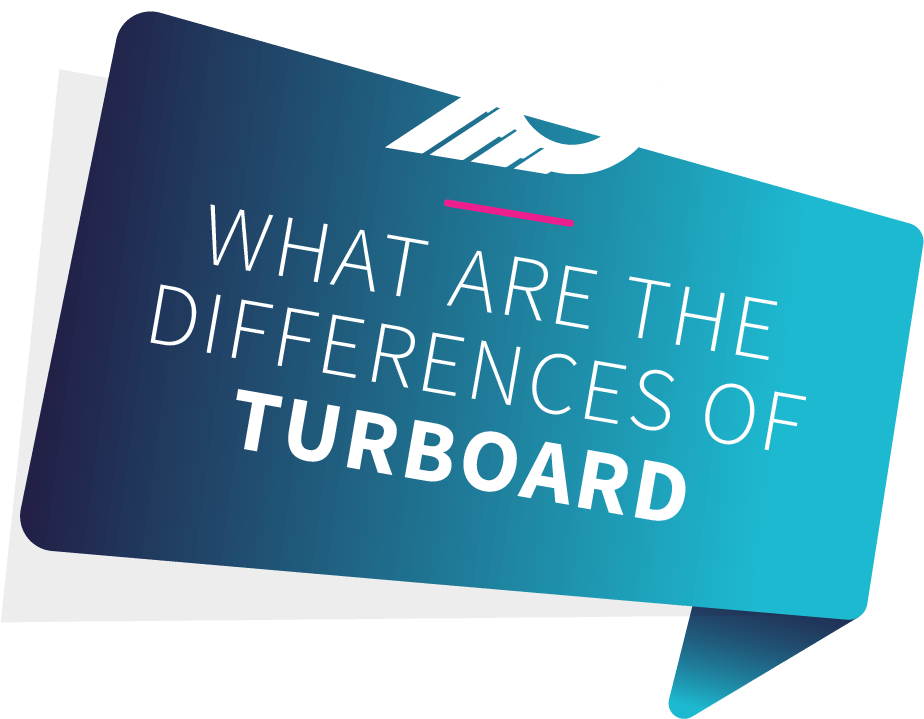
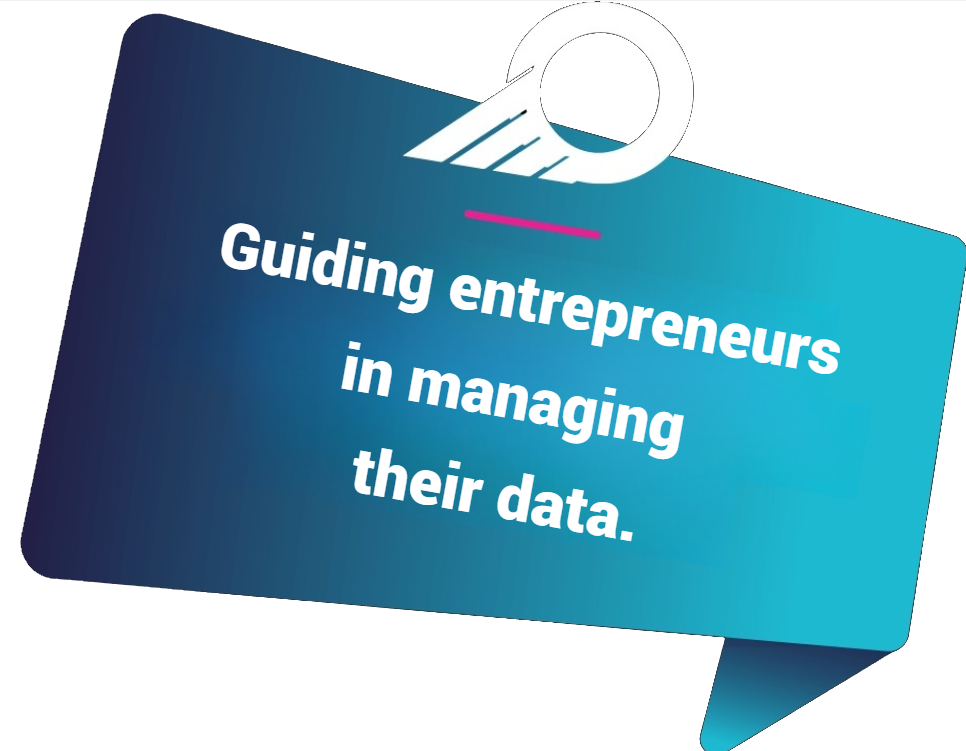
features

diff --git a/src/components/FeatureComponent/FeatureComponent.jsx b/src/components/FeatureComponent/FeatureComponent.jsx
@@ -1,0 +1,75 @@
+import React, { useState } from "react";
+import styles from "./styles.module.css";
+
+const FeatureComponent = () => {
+    const [currentIndex, setCurrentIndex] = useState(0);
+
+    const features = [
+        {
+            title: "Extended Slicing & Filtering Capabilities",
+            description:
+                "Slice and dice your data without a need for a preprocess, turn almost all dashlets to slicer. If there is no field in the database, create your filters using SQL.",
+            videoUrl: "https://www.youtube.com/embed/dQw4w9WgXcQ",
+        },
+        {
+            title: "Real-Time Dashboards",
+            description:
+                "Create dynamic, real-time dashboards with easy-to-use widgets and visualization tools to get insights instantly.",
+            videoUrl: "https://www.youtube.com/embed/ScMzIvxBSi4",
+        },
+        {
+            title: "Customizable Reports",
+            description:
+                "Generate and customize reports to suit your specific needs, ensuring accurate data representation.",
+            videoUrl: "https://www.youtube.com/embed/tgbNymZ7vqY",
+        },
+    ];
+
+    const handleNext = () => {
+        setCurrentIndex((prevIndex) => (prevIndex + 1) % features.length);
+    };
+
+    const handlePrev = () => {
+        setCurrentIndex((prevIndex) =>
+            prevIndex === 0 ? features.length - 1 : prevIndex - 1
+        );
+    };
+
+    return (
+        <>
+            <div className={styles.header}>
+                <h1>Features</h1>
+            </div>
+            <div className={styles.container}>
+                <div className={styles.textSection}>
+                    <h2>FEATURES OF TURBOARD</h2>
+                    <h3>{features[currentIndex].title}</h3>
+                    <p>{features[currentIndex].description}</p>
+                    <button className={styles.learnButton}>LEARN HOW</button>
+                </div>
+
+                <div className={styles.navigationButtons}>
+                    <button className={styles.navButton} onClick={handlePrev}>
+                        &lt;
+                    </button>
+                    <button className={styles.navButton} onClick={handleNext}>
+                        &gt;
+                    </button>
+                </div>
+
+                <div className={styles.mediaSection}>
+                    <iframe
+                        className={styles.videoFrame}
+                        src={features[currentIndex].videoUrl}
+                        title={features[currentIndex].title}
+                        frameBorder="0"
+                        allow="accelerometer; autoplay; clipboard-write; encrypted-media; gyroscope; picture-in-picture"
+                        allowFullScreen
+                    ></iframe>
+                </div>
+            </div>
+        </>
+    );
+};
+
+export default FeatureComponent;

diff --git a/src/components/FeatureComponent/styles.module.css b/src/components/FeatureComponent/styles.module.css
@@ -1,0 +1,117 @@
+.container {
+    display: flex;
+    align-items: center;
+    justify-content: space-between;
+    background: linear-gradient(to right, #0fa450, #41f361);
+    color: white;
+    padding: 20px;
+    border-radius: 10px;
+    height: 350px;
+    margin: 50px 0px;
+}
+
+.header{
+    text-align: center;
+    font-size: 1.3em;
+    color: #2c5f2d;
+    margin-top: 50px;
+}
+
+.textSection {
+    flex: 2;
+    padding: 10px;
+    text-align: end;
+}
+
+.textSection h2 {
+    font-size: 24px;
+    margin-bottom: 10px;
+}
+
+.textSection h3 {
+    font-size: 20px;
+    margin-bottom: 10px;
+}
+
+.textSection p {
+    font-size: 16px;
+    margin-bottom: 20px;
+}
+
+.learnButton {
+    background-color: #fff;
+    border: 1px solid #2c5f2d;
+    color: #2c5f2d;
+    border: none;
+    padding: 10px 20px;
+    border-radius: 5px;
+    cursor: pointer;
+    transition: 0.2s;
+    font-size: 16px;
+}
+
+.learnButton:hover {
+    background-color: #2c5f2d;
+    color: #fff;
+}
+
+.navigationButtons {
+    flex: 1;
+    display: flex;
+    justify-content: space-around;
+    align-items: center;
+    flex-direction: column;
+    gap: 20px;
+}
+
+.navButton {
+    background-color: #fff;
+    color: #0fa450;
+    border: none;
+    border-radius: 50%;
+    width: 40px;
+    height: 40px;
+    font-size: 20px;
+    cursor: pointer;
+    display: flex;
+    align-items: center;
+    transition: 0.2s;
+    justify-content: center;
+}
+
+.navButton:hover {
+    background-color: #41f361;
+    color: #fff;
+}
+
+.mediaSection {
+    margin-top: 20px;
+    width: 100%;
+    max-width: 450px;
+}
+
+.videoFrame {
+    width: 100%;
+    height: 250px;
+    border-radius: 8px;
+    box-shadow: 0 4px 6px rgba(0, 0, 0, 0.1);
+}
+
+.videoPlaceholder {
+    background-color: #2e2e50;
+    color: white;
+    width: 100%;
+    height: 200px;
+    display: flex;
+    align-items: center;
+    justify-content: center;
+    border-radius: 10px;
+    position: relative;
+}
+
+.playButton {
+    position: absolute;
+    font-size: 40px;
+    color: #ff007f;
+    cursor: pointer;
+}

diff --git a/src/pages/Home/Home.jsx b/src/pages/Home/Home.jsx
@@ -3,6 +3,7 @@ import ManageAccounts from '../../components/ManageAccounts/ManageAccounts'
 import HomeEnter from '../../components/HomeEnter/HomeEnter'
 import Banner from '../../components/Banner/Banner'
 import AccordionSection from '../../components/AccordionSection/AccordionSection'
+import FeatureComponent from '../../components/FeatureComponent/FeatureComponent'
 
 const Home = () => {
   return (
@@ -10,6 +11,7 @@ const Home = () => {
       <HomeEnter />
       <Banner/>
       <ManageAccounts />
+      <FeatureComponent />
       <AccordionSection />
     </div>
   )

diff --git a/src/components/Banner/Banner.jsx b/src/components/Banner/Banner.jsx
@@ -16,7 +16,7 @@ const Banner = () => {
             </div>
             <div className={styles.content}>
                 <h1 className={styles.title}>
-                    WHAT ARE THE DIFFERENCES OF <i>TURBOARD</i>
+                    Guiding entrepreneurs in managing their data.
                 </h1>
                 <button className={styles.learnMoreButton}>LEARN MORE</button>
             </div>
